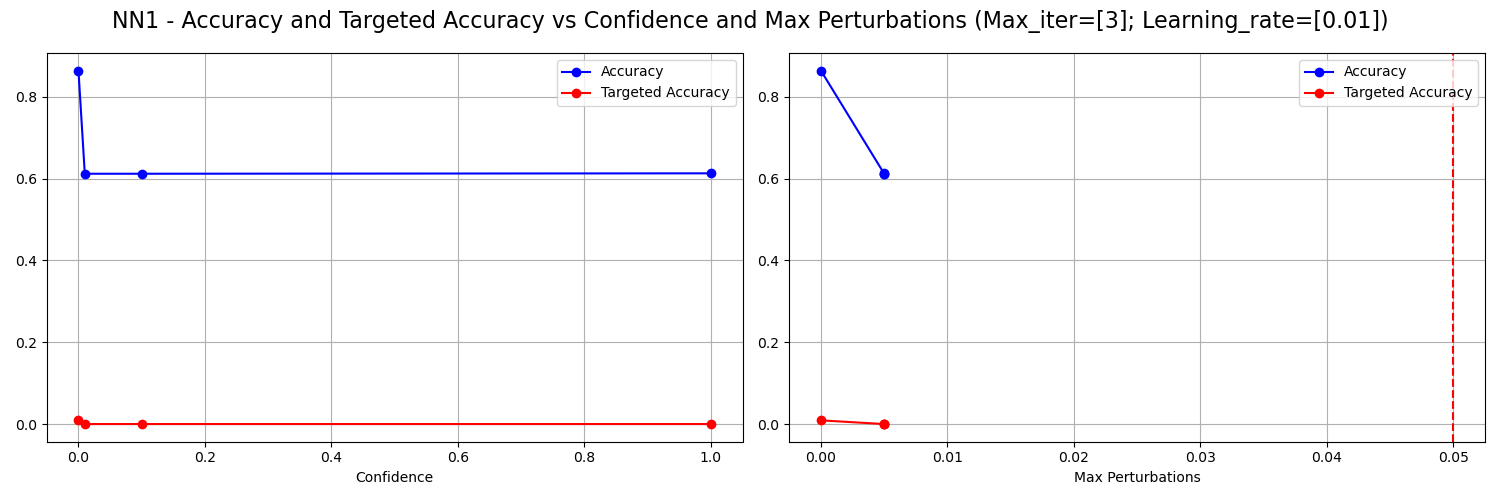
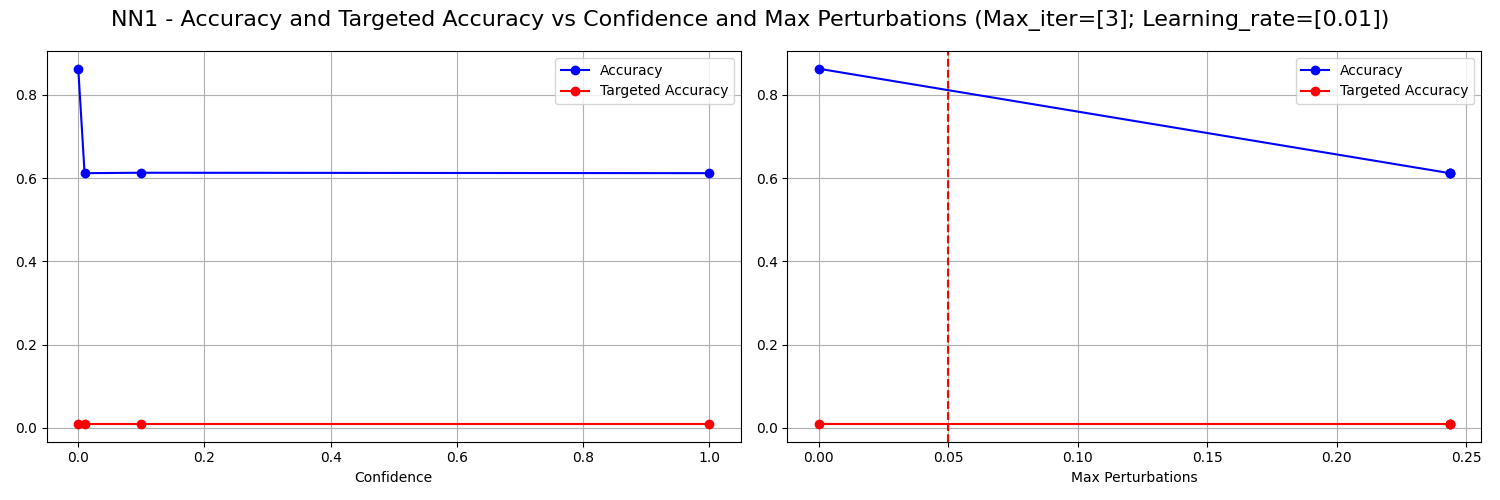
.

diff --git a/security_evaluation_curve.py b/security_evaluation_curve.py
@@ -306,6 +306,7 @@ def run_cw(classifier, name, test_set, accuracy_clean, targeted=False, targeted_
     else:
         plot_accuracy(f"{name} - Accuracy vs Confidence and Max Perturbations (Max_iter={max_iter}; Learning_rate={learning_rate})", "Confidence", confidence_values, max_perturbations, accuracies, attack_dir)
     
+    ''' 
     # Calcolo dell'accuracy al variare di max_iter e della perturbazione massima (con confidence e learning_rate fissati)
     load_dir = images_dir + attack_dir + "/plot2"
     imgs_adv = load_images_from_npy_folder(load_dir)
@@ -335,7 +336,7 @@ def run_cw(classifier, name, test_set, accuracy_clean, targeted=False, targeted_
         plot_accuracy(f"{name} - Accuracy and Targeted Accuracy vs Max Iterations and Max Perturbations (Confidence={confidence}; Learning_rate={learning_rate})", "Max Iterations", max_iter_values, max_perturbations, accuracies, attack_dir, targeted, targeted_accuracies)
     else:
         plot_accuracy(f"{name} - Accuracy vs Max Iterations and Max Perturbations (Confidence={confidence}; Learning_rate={learning_rate})", "Max Iterations", max_iter_values, max_perturbations, accuracies, attack_dir)
-        
+
     # Calcolo dell'accuracy al variare del learning_rate e della perturbazione massima (con confidence e max_iter fissati)
     load_dir = images_dir + attack_dir + "/plot3"
     imgs_adv = load_images_from_npy_folder(load_dir)
@@ -365,7 +366,7 @@ def run_cw(classifier, name, test_set, accuracy_clean, targeted=False, targeted_
         plot_accuracy(f"{name} - Accuracy and Targeted Accuracy vs Learning Rate and Max Perturbations (Confidence={confidence}; Max_iter={max_iter})", "Learning Rate", learning_rate_values, max_perturbations, accuracies, attack_dir, targeted, targeted_accuracies)
     else:
         plot_accuracy(f"{name} - Accuracy vs Learning Rate and Max Perturbations (Confidence={confidence}; Max_iter={max_iter})", "Learning Rate", learning_rate_values, max_perturbations, accuracies, attack_dir)
-
+    '''
 
 def plot_accuracy(title, x_title, x, max_perturbations, accuracies, attack_dir, targeted=False, targeted_accuracies=None):
     fig, axes = plt.subplots(1, 2, figsize=(15, 5))

diff --git a/main.py b/main.py
@@ -54,8 +54,8 @@ def main():
         run_pgd(classifier, name, test_set, accuracy_clean)
     if "df" in attacks:
         run_df(classifier, name, test_set, accuracy_clean)
-    if "cw" in attacks:
-        run_cw(classifier, name, test_set, accuracy_clean)
+    #if "cw" in attacks:
+        #run_cw(classifier, name, test_set, accuracy_clean)
 
     # Calcolo della targeted accuracy sulle immagini clean rispetto alle label della classe target
     target_class_label = "Cristiano_Ronaldo"
@@ -66,13 +66,13 @@ def main():
 
     # Avvio dell'attacco selezionato TARGETED
     if "fgsm" in attacks:
-        run_fgsm(classifier, name, test_set, accuracy_clean, True, targeted_accuracy_clean, 0)
+        run_fgsm(classifier, name, test_set, accuracy_clean, True, targeted_accuracy_clean, target_class)
     if "bim" in attacks:
-        run_bim(classifier, name, test_set, accuracy_clean, True, targeted_accuracy_clean, 0)
+        run_bim(classifier, name, test_set, accuracy_clean, True, targeted_accuracy_clean, target_class)
     if "pgd" in attacks:
-        run_pgd(classifier, name, test_set, accuracy_clean, True, targeted_accuracy_clean, 0)
+        run_pgd(classifier, name, test_set, accuracy_clean, True, targeted_accuracy_clean, target_class)
     if "cw" in attacks:
-        run_cw(classifier, name, test_set, accuracy_clean, True, targeted_accuracy_clean, 0)
+        run_cw(classifier, name, test_set, accuracy_clean, True, targeted_accuracy_clean, target_class)
 
 
 if __name__ == "__main__":

diff --git a/generate_adv_example.py b/generate_adv_example.py
@@ -9,7 +9,7 @@ from attacks import FGSM, BIM, PGD, DF, CW
 def main():
     parser = argparse.ArgumentParser()
     parser.add_argument('--generate_train_adv', type=bool, default=False, help='Se True, genera il train adv set; altrimenti genera il test adv set')
-    parser.add_argument("--targeted", type=bool, default=False, help="Generate targeted attacks")
+    parser.add_argument("--targeted", type=bool, default=True, help="Generate targeted attacks")
     parser.add_argument("--verbose", type=bool, default=True, help="Print detailed information during the generation of adversarial examples")
     args = parser.parse_args()
 
@@ -19,7 +19,7 @@ def main():
 
     # Attacchi selezionati
     attack_types = ["fgsm", "bim", "pgd", "df", "cw"]
-    attack_types = ["df"]
+    attack_types = ["fgsm"]
 
     # Generazione del training set avversario
     if args.generate_train_adv:
